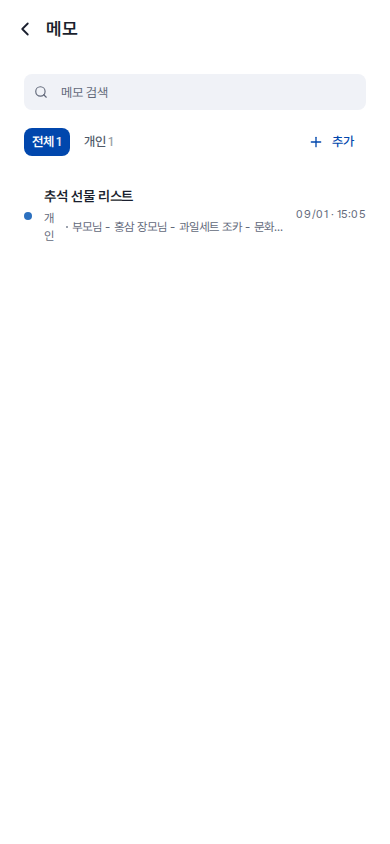
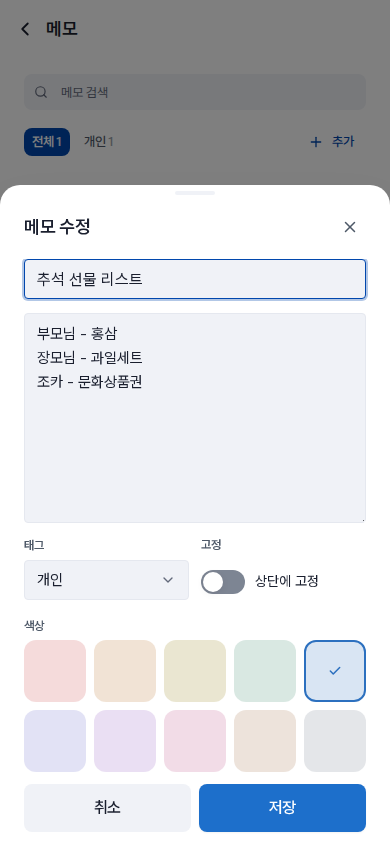
docs: 환불 취소·할일 추가폼 단일화·메모 태그 반영 (라이브 재검증)
- 거래 환불: 환불 취소 버튼(원거래 연결만 끊고 거래는 일반 수입으로 남김),
  환불 상한 자동 보정("최대 OOO원까지..."), 원거래에 남는 "환불 N건 묶여있음"
  안내를 반영한다(2026-09-10 결정 사항)
- 할 일 추가: "빠르게/자세히" 두 갈래가 없어지고 제목·마감일·태그·우선순위·
  메모를 한 폼에서 받는 방식으로 바뀐 걸 반영한다(2026-09-08 결정)
- 메모: 폴더 개념이 완전히 폐기되고 태그로 바뀐 걸 반영한다 — memo.md 전면
  수정, 신규 설정 화면 문서 settings/memo-tag.md 추가(할 일 태그와 같은 구성)
- 설정 사이드바 순서 재배열(메모 태그를 할 일 태그 다음에 끼워 넣음)

Release-Note: skip

diff --git a/docs/expense/transactions.md b/docs/expense/transactions.md
@@ -160,13 +160,44 @@ title: 거래내역
 카드사에서 결제를 취소해줬거나 물건을 환불받았을 때 씁니다. **원래 지출 기록을 고치는 게 아니라, 카테고리가 "환불"로 지정된 새 수입 거래를 하나 더 만드는 방식**입니다.
 
 1. 환불받을 원래 지출의 상세를 열고 **[환불]** 을 누릅니다
-2. 수입 탭으로 자동 전환된 폼이 열리고, **금액(원래 지출액과 동일하게 기본 입력) · 거래처 · 입금 계좌**가 원래 거래 기준으로 미리 채워집니다 — 일부만 돌려받았다면 금액을 고쳐서 부분 환불로 기록할 수 있습니다
-3. **날짜 · 시간은 원래 결제일이 아니라 지금(환불을 기록하는 시점)** 이 기본값입니다 — 실제로 환불받은 날짜로 고쳐주세요
-4. **[추가]**
+2. 수입 탭으로 자동 전환된 폼이 열리고, **금액(원래 지출액과 동일하게 기본 입력) · 거래처 · 입금 계좌**가 원래 거래 기준으로 미리 채워집니다 — **카테고리는 "환불"을 직접 골라야 합니다**(자동으로 선택되어 있지 않으면 [추가] 버튼이 눌리지 않습니다)
+3. 일부만 돌려받았다면 금액을 고쳐서 부분 환불로 기록할 수 있습니다 — 이미 환불한 금액을 뺀 **남은 원거래 금액이 상한**이라, 그보다 큰 값을 입력하면 저장 없이 "최대 OOO원까지 넣을 수 있어요. 그 값으로 맞췄어요"라는 안내와 함께 자동으로 상한값으로 줄어듭니다
+4. **날짜 · 시간은 원래 결제일이 아니라 지금(환불을 기록하는 시점)** 이 기본값입니다 — 실제로 환불받은 날짜로 고쳐주세요
+5. **[추가]**
 
 :::info[원래 지출은 그대로 남습니다]
-환불을 기록해도 원래 지출 거래는 삭제 · 수정되지 않고 그대로 남습니다. 대신 [예산](./budget.md) 이행률을 계산할 때 카테고리 "환불"로 들어온 수입만큼 원래 지출에서 상계되어 빠집니다 — 그래서 지출 목록에는 두 건(원래 지출 + 환불 수입)이 그대로 보이는데, 예산 화면의 지출 합계는 그만큼 줄어 있습니다.
+환불을 기록해도 원래 지출 거래는 삭제 · 수정되지 않고 그대로 남습니다. 대신 [예산](./budget.md) 이행률을 계산할 때 카테고리 "환불"로 들어온 수입만큼 원래 지출에서 상계되어 빠집니다 — 그래서 지출 목록에는 두 건(원래 지출 + 환불 수입)이 그대로 보이는데, 예산 화면의 지출 합계는 그만큼 줄어 있습니다. 원래 지출의 상세를 다시 열어보면 "환불 N건 · OOO원이 이 거래에 묶여 있어요"라는 안내로 지금까지 환불된 금액을 확인할 수 있습니다.
 :::
+
+### 환불을 잘못 기록했다면 — 환불 취소
+
+환불로 만들어진 수입 거래는 상세를 열면 [환불] 대신 **[환불 취소]** 버튼이 있습니다. 이 거래를 지우는 게 아니라 **원거래와의 연결만 끊습니다** — 확인창 문구 그대로, "거래는 그대로 남고 일반 수입이 돼요. 원거래의 지출도 깎이지 않고 전액으로 잡혀요." 완전히 없던 일로 하고 싶다면 연결을 끊은 뒤 [거래 삭제](#거래-삭제)로 그 수입 거래를 따로 지워야 합니다.
+
+<Tabs groupId="device">
+<TabItem value="desktop" label="데스크톱">
+
+![환불로 만들어진 수입 거래 상세 — 환불 대신 환불 취소 버튼이 있고, "원거래에 묶인 환불이에요" 안내가 붙습니다](/img/screens/expense-refund-linked.png)
+
+</TabItem>
+<TabItem value="mobile" label="모바일">
+
+![환불로 만들어진 수입 거래 상세 — 환불 대신 환불 취소 버튼이 있고, "원거래에 묶인 환불이에요" 안내가 붙습니다](/img/screens/mobile-expense-refund-linked.png)
+
+</TabItem>
+</Tabs>
+
+<Tabs groupId="device">
+<TabItem value="desktop" label="데스크톱">
+
+![환불 취소 확인창 — 거래는 지워지지 않고 원거래와의 연결만 끊어집니다](/img/screens/expense-refund-cancel-confirm.png)
+
+</TabItem>
+<TabItem value="mobile" label="모바일">
+
+![환불 취소 확인창 — 거래는 지워지지 않고 원거래와의 연결만 끊어집니다](/img/screens/mobile-expense-refund-cancel-confirm.png)
+
+</TabItem>
+</Tabs>
 
 ## 문자로 자동 반영
 

diff --git a/docs/memo/memo.md b/docs/memo/memo.md
@@ -11,7 +11,7 @@ title: 메모
 
 - **카드 그리드**: 메모가 색상 카드로 나열됩니다
 - **검색**: 제목 · 내용으로 메모를 찾습니다
-- **폴더 필터**: 전체 · 폴더별로 좁혀 봅니다(기본 폴더는 "개인")
+- **태그 필터**: 전체 · 태그별로 좁혀 봅니다 — 태그는 [설정 → 메모 태그](../settings/memo-tag.md)에서 만듭니다. 아직 만든 태그가 없다면 "태그 없음" 묶음만 보입니다
 
 <Tabs groupId="device">
 <TabItem value="desktop" label="데스크톱">
@@ -21,7 +21,7 @@ title: 메모
 </TabItem>
 <TabItem value="mobile" label="모바일">
 
-![모바일 화면 — 폴더 필터와 메모 목록](/img/screens/mobile-memo-list.png)
+![모바일 화면 — 태그 필터와 메모 목록](/img/screens/mobile-memo-list.png)
 
 </TabItem>
 </Tabs>
@@ -30,25 +30,29 @@ title: 메모
 
 1. **[+ 메모 추가]**
 2. **제목**과 **내용**을 입력합니다
-3. 필요하면 **폴더**와 **카드 색상**을 고릅니다
+3. 필요하면 **태그**와 **카드 색상**을 고르고, **고정**을 켜면 목록 상단에 항상 보이게 할 수 있습니다
 4. **[저장]**
+
+:::info[태그 선택칸에는 만들어둔 태그만 떠요]
+새 태그 이름을 여기서 바로 지어낼 수 없습니다 — 목록에 없는 태그를 쓰고 싶다면 [설정 → 메모 태그](../settings/memo-tag.md)에서 먼저 만들어야 합니다. 아직 하나도 없다면 "태그 없음"만 고를 수 있습니다.
+:::
 
 <Tabs groupId="device">
 <TabItem value="desktop" label="데스크톱">
 
-![메모 추가 — 제목·내용을 입력하고 저장합니다](/img/screens/memo-add-form.png)
+![메모 추가 — 제목·내용·태그·색상·고정 여부를 설정합니다](/img/screens/memo-add-form.png)
 
 </TabItem>
 <TabItem value="mobile" label="모바일">
 
-![메모 추가 — 제목·내용을 입력하고 저장합니다](/img/screens/mobile-memo-add-form.png)
+![메모 추가 — 제목·내용·태그·색상·고정 여부를 설정합니다](/img/screens/mobile-memo-add-form.png)
 
 </TabItem>
 </Tabs>
 
 ## 메모 수정
 
-메모 카드를 눌러 상세를 열고 **[수정]** 을 누르면 같은 폼이 열려 제목 · 내용 · 폴더 · 색상을 모두 바꿀 수 있습니다.
+메모 카드를 눌러 상세를 열고 **[수정]** 을 누르면 같은 폼이 열려 제목 · 내용 · 태그 · 색상 · 고정 여부를 모두 바꿀 수 있습니다.
 
 <Tabs groupId="device">
 <TabItem value="desktop" label="데스크톱">
@@ -103,8 +107,6 @@ title: 메모
 
 메모를 새로 쓰면 별빛이 +1 쌓입니다. 다만 **하루에 두 번까지만** — 그날 세 번째로 쓰는 메모부터는 별빛이 붙지 않습니다. 쓴 그날 안에 그 메모를 지우면 쌓였던 별빛도 함께 회수되지만, 다음 날 이후에 지우면 별빛은 그대로 유지됩니다.
 
-## 폴더를 지워도 메모는 안 지워집니다
+## 다음 단계
 
-메모 폴더를 삭제하면 폴더만 목록에서 사라지고, **그 안에 있던 메모는 지워지지 않습니다.** 다만 폴더가 없어졌기 때문에 그 메모들이 "폴더별 보기"에서는 안 보일 수 있습니다 — 메모가 사라진 게 아니라 전체 목록이나 검색으로 찾을 수 있습니다.
-
-같은 위치(같은 상위 폴더)에 폴더명이 겹치는 건 막히지만, 지운 폴더의 이름은 새 폴더에 다시 써도 됩니다.
+- [메모 태그](../settings/memo-tag.md) — 메모를 분류할 태그를 만들고 관리합니다

diff --git a/docs/settings/memo-tag.md b/docs/settings/memo-tag.md
@@ -1,0 +1,71 @@
+---
+sidebar_position: 9
+title: 메모 태그
+---
+
+# 메모 태그
+
+[메모](../memo/memo.md)에 붙이는 태그를 만들고 관리합니다. 새로 만든 태그는 메모를 추가 · 수정할 때 바로 고를 수 있습니다.
+
+<Tabs groupId="device">
+<TabItem value="desktop" label="데스크톱">
+
+![메모 태그 — 몇 건의 메모에 쓰이고 있는지 표시됩니다](/img/screens/settings-memo-tags.png)
+
+</TabItem>
+<TabItem value="mobile" label="모바일">
+
+![메모 태그 — 몇 건의 메모에 쓰이고 있는지 표시됩니다](/img/screens/mobile-settings-memo-tags.png)
+
+</TabItem>
+</Tabs>
+
+:::info[태그를 먼저 만들어야 메모에서 고를 수 있어요]
+메모 추가 · 수정 폼의 태그 선택칸에는 여기서 만든 태그와 "태그 없음"만 뜹니다 — 목록이 비어 있으면 태그 없음만 고를 수 있으니, 분류해서 쓰고 싶다면 여기서 먼저 태그를 만들어두세요.
+:::
+
+## 태그 생성
+
+1. **[+ 태그 추가]**
+2. **이름**(최대 12자 · 같은 이름의 태그가 이미 있으면 저장하기 전에 알려 줍니다)과 **색상**을 정합니다
+3. **[태그 추가]**
+
+<Tabs groupId="device">
+<TabItem value="desktop" label="데스크톱">
+
+![태그 추가 — 이름과 색상만 정하면 됩니다](/img/screens/settings-memo-tag-add-form.png)
+
+</TabItem>
+<TabItem value="mobile" label="모바일">
+
+![태그 추가 — 이름과 색상만 정하면 됩니다](/img/screens/mobile-settings-memo-tag-add-form.png)
+
+</TabItem>
+</Tabs>
+
+## 태그 수정
+
+태그 행을 누르면 같은 폼이 열려 이름 · 색상을 바꿀 수 있습니다.
+
+<Tabs groupId="device">
+<TabItem value="desktop" label="데스크톱">
+
+![태그 수정](/img/screens/settings-memo-tag-edit-form.png)
+
+</TabItem>
+<TabItem value="mobile" label="모바일">
+
+![태그 수정](/img/screens/mobile-settings-memo-tag-edit-form.png)
+
+</TabItem>
+</Tabs>
+
+## 태그 삭제
+
+행의 **휴지통 아이콘**을 누르고 확인 창에서 **[삭제]** 를 누릅니다.
+
+![태그 삭제 확인 — 이 태그를 쓰는 메모는 몇 건인지까지 알려줍니다](/img/screens/settings-memo-tag-delete-confirm.png)
+
+:::danger[삭제하면 그 태그가 붙어있던 메모는 "태그 없음"이 됩니다]
+확인 창이 "이 태그를 쓰는 메모 N건은 태그 없음으로 남아요"처럼 영향받는 개수까지 미리 알려줍니다. 태그를 삭제해도 **메모 자체는 지워지지 않고**, 그 메모들에서 태그만 빠집니다 — [할 일 태그 삭제](./todo-tag.md#태그-삭제)와 같은 방식입니다.
+:::

diff --git a/docs/todo/todo.md b/docs/todo/todo.md
@@ -28,25 +28,26 @@ title: 할 일 관리
 
 ## 할 일 생성
 
-**빠르게 추가**: 입력창에 제목만 쓰고 Enter — 마감일은 오늘로, 우선순위는 "보통"으로 바로 등록됩니다. 이 입력창은 데스크톱에만 있고, 모바일은 오른쪽 아래 **+** 버튼으로 아래의 "자세히 추가" 폼이 바로 열립니다.
+오른쪽 위(모바일은 오른쪽 아래) **[+ 할 일 추가]** 버튼 하나로 만듭니다 — 데스크톱·모바일 모두 같은 폼이 열립니다.
 
-**자세히 추가**: 처음부터 마감일 · 태그 · 우선순위 · 메모까지 정해서 만들고 싶을 때 씁니다.
+1. **제목**을 입력합니다
+2. **마감일**(기본값 오늘), **태그**(기본값 "태그 없음"), **우선순위**(중요 · 보통(기본값) · 여유)를 필요하면 고릅니다
+3. 필요하면 **메모**를 남깁니다
+4. **[저장]**
 
-1. **[자세히]** 를 누릅니다
-2. **제목**을 입력합니다
-3. **마감일**, **태그**, **우선순위**(중요 · 보통 · 여유)를 고릅니다
-4. 필요하면 **메모**를 남깁니다
-5. **[저장]**
+:::info[예전에는 제목만 쓰고 Enter로 바로 등록하는 "빠르게 추가" 입력창이 따로 있었어요]
+지금은 데스크톱에도 그 입력창이 없고, 위 폼 하나로 통일되었습니다. 마감일 · 우선순위가 이미 기본값(오늘 · 보통)으로 채워져 있어 제목만 쓰고 바로 저장해도 예전 "빠르게 추가"와 같은 결과가 됩니다.
+:::
 
 <Tabs groupId="device">
 <TabItem value="desktop" label="데스크톱">
 
-![할 일 자세히 추가 — 제목·마감일·태그·우선순위·메모를 한 번에 설정합니다](/img/screens/todo-add-detail-form.png)
+![할 일 추가 — 제목·마감일·태그·우선순위·메모를 한 폼에서 설정합니다. 마감일은 오늘, 우선순위는 보통이 기본값입니다](/img/screens/todo-add-detail-form.png)
 
 </TabItem>
 <TabItem value="mobile" label="모바일">
 
-![할 일 추가 — 모바일은 빠르게·자세히 구분 없이 + 버튼 하나로 항상 이 폼이 열립니다](/img/screens/mobile-todo-add-detail-form.png)
+![할 일 추가 — 데스크톱과 같은 구성의 폼입니다](/img/screens/mobile-todo-add-detail-form.png)
 
 </TabItem>
 </Tabs>

diff --git a/docs/settings/data-transfer.md b/docs/settings/data-transfer.md
@@ -1,5 +1,5 @@
 ---
-sidebar_position: 11
+sidebar_position: 12
 title: 데이터 내보내기 · 가져오기
 ---
 

diff --git a/docs/settings/notifications.md b/docs/settings/notifications.md
@@ -1,5 +1,5 @@
 ---
-sidebar_position: 10
+sidebar_position: 11
 title: 알림 설정
 ---
 

diff --git a/docs/settings/display.md b/docs/settings/display.md
@@ -1,5 +1,5 @@
 ---
-sidebar_position: 9
+sidebar_position: 10
 title: 표시 설정
 ---
 

diff --git a/docs/settings/account.md b/docs/settings/account.md
@@ -1,5 +1,5 @@
 ---
-sidebar_position: 12
+sidebar_position: 13
 title: 계정
 ---
 
